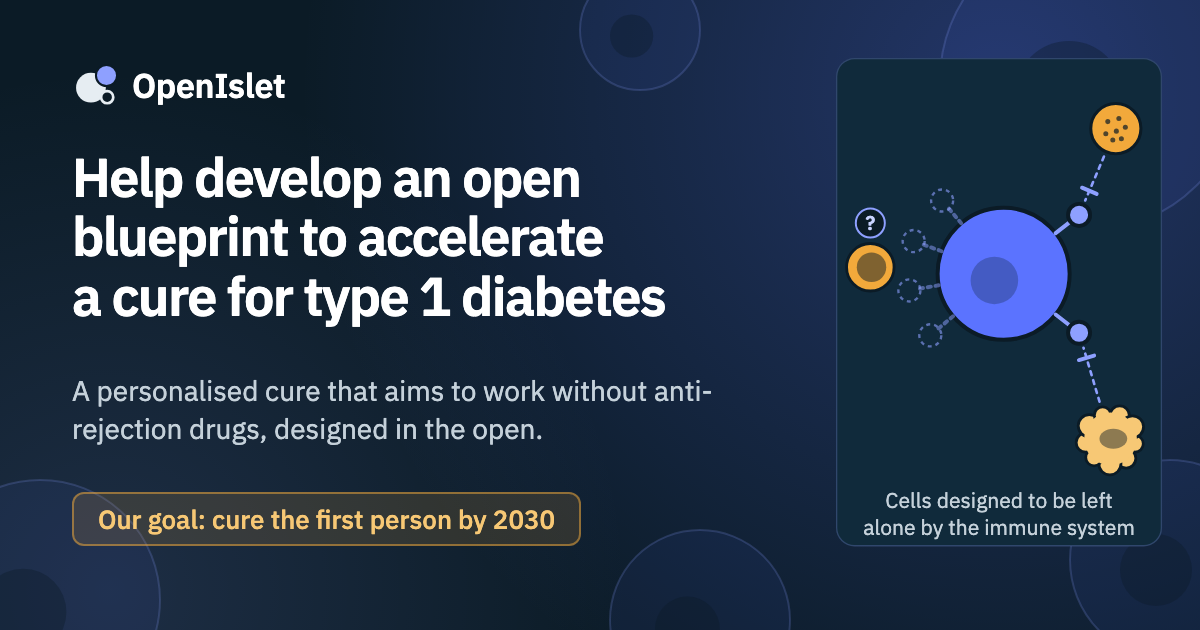
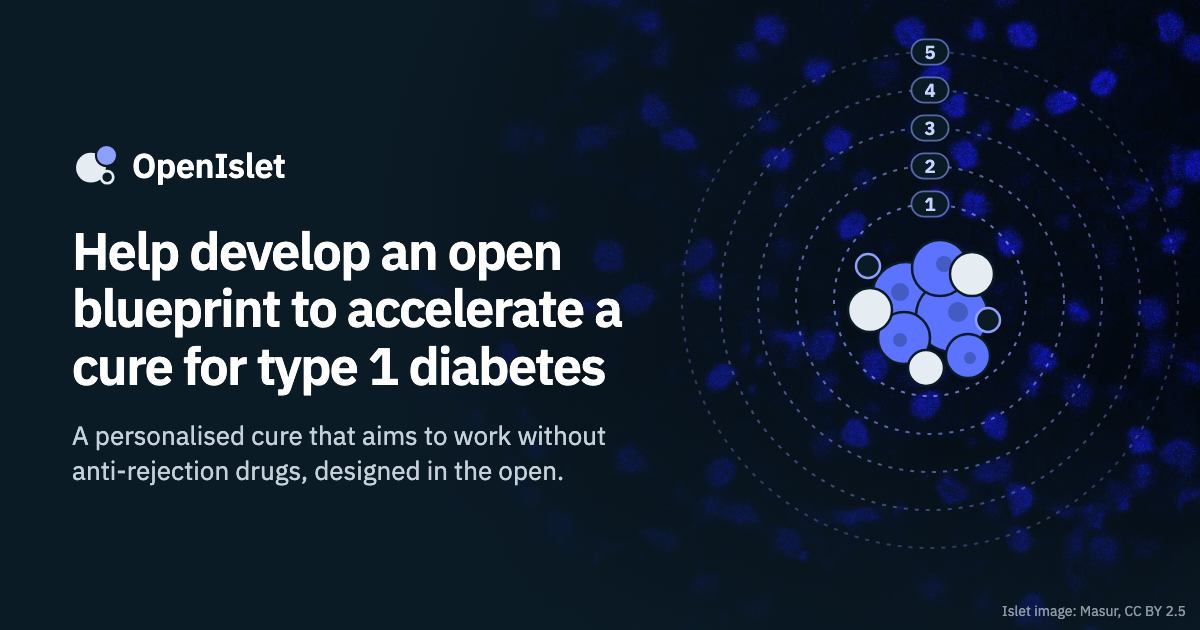
Use the newer share picture for link previews
- Links to the site now show the "inside an islet" card. It has a new
  file name (og-islet.png) so apps fetch it again, and og.png holds the
  same picture for older shares.

diff --git a/src/data/site.ts b/src/data/site.ts
@@ -112,9 +112,12 @@ export const showScenarioIndices = import.meta.env.PUBLIC_SHOW_SCENARIO_INDICES 
  */
 export const indexable = import.meta.env.PUBLIC_INDEXABLE === 'true';
 
-/** The picture shown when a link to the site is shared (built by social/x-profile-pack/tools/render.sh). */
+/**
+ * The picture shown when a link to the site is shared (built by social/x-profile-pack/tools/render.sh). A new look gets a new file
+ * name, because apps keep a shared picture by its address; /og.png holds the same picture for older shares.
+ */
 export const shareImage = {
-  src: '/og.png',
+  src: '/og-islet.png',
   width: 1200,
   height: 630,
   alt: 'OpenIslet: help develop an open blueprint to accelerate a cure for type 1 diabetes.',

diff --git a/docs/UPDATING.md b/docs/UPDATING.md
@@ -58,7 +58,7 @@ The website is built from data files, so most updates are one command. Nothing o
 | The roadmap: Stage 0 in full, Stages 1 to 5 as a short outline, the partner and open-source statement, and the dog study's aim | `src/data/roadmap.ts` (see "Changing the roadmap" below). The connector's `roadmap` section reads it too |
 | The pictures on the roadmap cards, the two "after the blueprint" pictures and the terrier | `src/components/roadmap/` (`StageArt0` to `StageArt5`, `StageIcon`, `WayArt`, `Terrier`). The terrier's six numbered labels must match the six items in `canine.legend` |
 | Whether the connector is live, whether IIPs can be sent, whether search engines may list the site | `PUBLIC_CONNECTOR_STATUS`, `PUBLIC_SUBMISSIONS_OPEN` and `PUBLIC_INDEXABLE` in `.env` (see `README.md` for the launch-day settings). Start here always opens on the copy-and-paste route, with "Connect with MCP" as the other choice (`/start?route=mcp` opens it); `PUBLIC_CONNECTOR_STATUS` is read by the Submit page only |
-| The picture shown when a link is shared | `social/x-profile-pack/tools/gen.mjs`, then `social/x-profile-pack/tools/render.sh` (writes `public/og.png`) |
+| The picture shown when a link is shared | `social/x-profile-pack/tools/gen.mjs`, then `social/x-profile-pack/tools/render.sh` (writes `share-card-1200x630.png`; copy it into `public/` under a new name and point `shareImage` in `src/data/site.ts` at it) |
 
 ## Changing the roadmap
 
